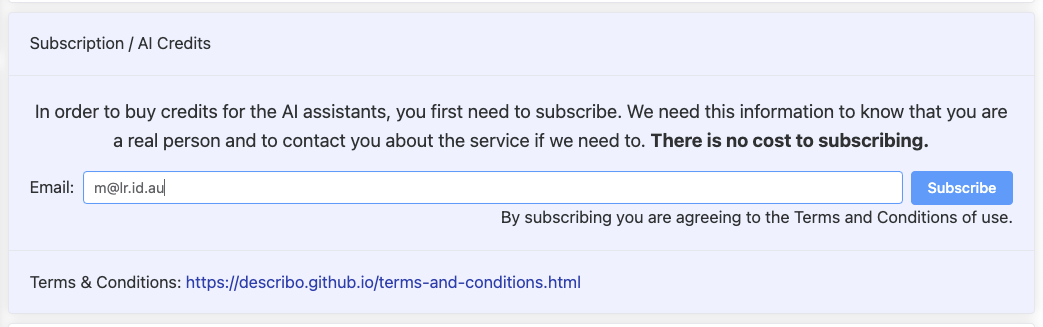
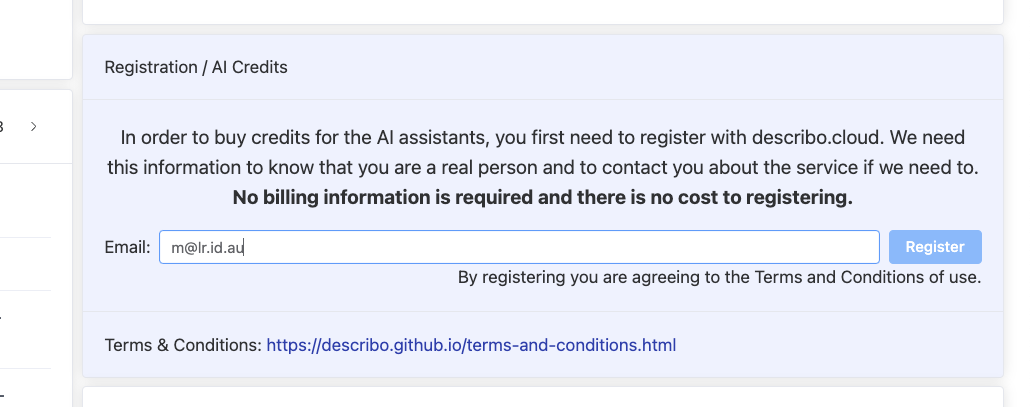
update site content

diff --git a/src/vue-components/Releases.vue b/src/vue-components/Releases.vue
@@ -1,89 +1,126 @@
 <template>
-    <div class="flex flex-col space-y-10">
-        <div
-            class="flex flex-row space-x-6 place-content-between border-b p-4 group hover:text-orange-600"
-        >
-            <div class="flex flex-row space-x-2 items-center">
+    <div class="flex flex-col space-y-10 p-10">
+        <div class="text-center text-2xl border-b py-12">Get Describo - Free Download</div>
+
+        <div class="flex flex-row space-x-32 place-content-center">
+            <div
+                class="flex flex-col space-y-2 justify-center items-center h-24 w-52 hover:text-blue-600 hover:cursor-pointer"
+                :class="{ 'text-blue-600 bg-indigo-100 rounded-xl': data.activeTab === 'mac' }"
+                @click="() => (data.activeTab = 'mac')"
+            >
                 <div><font-awesome-icon icon="fa-brands fa-apple" size="3x" /></div>
-                <div>Apple</div>
+                <div>macOS</div>
             </div>
-            <div class="flex flex-col space-y-2">
+            <div
+                class="flex flex-col space-y-2 justify-center items-center h-24 w-52 hover:text-blue-600 hover:cursor-pointer"
+                :class="{ 'text-blue-600 bg-indigo-100 rounded-xl': data.activeTab === 'windows' }"
+                @click="() => (data.activeTab = 'windows')"
+            >
+                <div><font-awesome-icon icon="fa-brands fa-windows" size="3x" /></div>
+                <div>windows</div>
+            </div>
+            <div
+                class="flex flex-col space-y-2 justify-center items-center h-24 w-52 hover:text-blue-600 hover:cursor-pointer"
+                :class="{ 'text-blue-600 bg-indigo-100 rounded-xl': data.activeTab === 'linux' }"
+                @click="() => (data.activeTab = 'linux')"
+            >
+                <div><font-awesome-icon icon="fa-brands fa-linux" size="3x" /></div>
+                <div>linux</div>
+            </div>
+        </div>
+
+        <!-- download for mac  -->
+        <div class="flex flex-col space-y-4 group py-10" v-if="data.activeTab === 'mac'">
+            <div class="flex flex-row space-x-24 place-content-center">
                 <LinkComponent :link="data.download.macArm" target="">
-                    <div class="flex flex-row space-x-2 items-center">
+                    <div class="flex flex-col space-y-2 items-center text-white font-semibold">
                         <div>
-                            <img src="/images/logos/apple-m.jpeg" class="h-10" />
+                            <img src="/images/logos/apple-m.webp" class="h-16" />
                         </div>
-                        <div>Download for Apple M processors</div>
+                        <div class="bg-blue-800 p-4 rounded-lg">
+                            Download for Apple M processors
+                        </div>
                     </div>
                 </LinkComponent>
                 <LinkComponent :link="data.download.macIntel" target="">
-                    <div class="flex flex-row space-x-2 items-center">
-                        <div>
-                            <img src="/images/logos/intel.png" class="h-10" />
+                    <div class="flex flex-col space-y-2 items-center">
+                        <div class="flex flex-col space-y-2 items-center text-white font-semibold">
+                            <div>
+                                <img src="/images/logos/intel.webp" class="h-16" />
+                            </div>
+                            <div class="bg-blue-800 p-4 rounded-lg">
+                                Download for Intel processors
+                            </div>
                         </div>
-                        <div>Download for Intel processors</div>
                     </div>
                 </LinkComponent>
-                <TipComponent class="text-center">
-                    Be sure to read the
-                    <LinkComponent link="/docs/guide/installation#macos" target="">
-                        installation instructions
-                    </LinkComponent>
-                </TipComponent>
             </div>
+            <TipComponent class="text-center text-lg">
+                Be sure to read the
+                <LinkComponent link="/docs/guide/installation#macos" target="">
+                    installation instructions
+                </LinkComponent>
+            </TipComponent>
         </div>
 
-        <div
-            class="flex flex-row space-x-6 place-content-between border-b p-4 group hover:text-orange-600"
-        >
-            <div class="flex flex-row space-x-2 items-center">
-                <div><font-awesome-icon icon="fa-brands fa-windows" size="3x" /></div>
-                <div>Windows</div>
-            </div>
-            <div class="flex flex-col">
+        <!-- download for windows -->
+        <div class="flex flex-col space-y-4 group py-10" v-if="data.activeTab === 'windows'">
+            <div class="flex flex-row space-x-24 place-content-center">
                 <LinkComponent :link="data.download.wintel" target="">
-                    <div class="flex flex-row space-x-2 items-center">
-                        <div>
-                            <img src="/images/logos/intel.png" class="h-10" />
+                    <div class="flex flex-col space-y-2 items-center">
+                        <div class="flex flex-col space-y-2 items-center text-white font-semibold">
+                            <div>
+                                <img src="/images/logos/intel-inside.webp" class="h-16" />
+                            </div>
+                            <div class="bg-blue-800 p-4 rounded-lg">
+                                Download for Intel processors
+                            </div>
                         </div>
-                        <div>Download for Intel processors</div>
                     </div>
                 </LinkComponent>
                 <LinkComponent :link="data.download.winarm" target="">
-                    <div>Download for ARM processors</div>
-                </LinkComponent>
-                <TipComponent class="text-center">
-                    Be sure to read the
-                    <LinkComponent link="/docs/guide/installation#windows" target="">
-                        installation instructions
-                    </LinkComponent>
-                </TipComponent>
-            </div>
-        </div>
-
-        <div
-            class="flex flex-row space-x-6 place-content-between border-b p-4 group hover:text-orange-600"
-        >
-            <div class="flex flex-row space-x-2 items-center">
-                <div><font-awesome-icon icon="fa-brands fa-linux" size="3x" /></div>
-                <div>Linux</div>
-            </div>
-            <div class="flex flex-col">
-                <LinkComponent :link="data.download.linux" target="">
-                    <div class="flex flex-row space-x-2 items-center">
-                        <div>
-                            <img src="/images/logos/intel.png" class="h-10" />
+                    <div class="flex flex-col space-y-2 items-center">
+                        <div class="flex flex-col space-y-2 items-center text-white font-semibold">
+                            <div>
+                                <img src="/images/logos/windows-arm-logo.webp" class="h-16" />
+                            </div>
+                            <div class="bg-blue-800 p-4 rounded-lg">
+                                Download for ARM processors
+                            </div>
                         </div>
-                        <div>Download for Intel processors</div>
                     </div>
                 </LinkComponent>
-                <TipComponent class="text-center">
-                    Be sure to read the
-                    <LinkComponent link="/docs/guide/installation#linux" target="">
-                        installation instructions
-                    </LinkComponent>
-                </TipComponent>
             </div>
+            <TipComponent class="text-center text-lg">
+                Be sure to read the
+                <LinkComponent link="/docs/guide/installation#windows" target="">
+                    installation instructions
+                </LinkComponent>
+            </TipComponent>
+        </div>
+
+        <!-- download for linux -->
+        <div class="flex flex-col space-y-4 group py-10" v-if="data.activeTab === 'linux'">
+            <div class="flex flex-row space-x-24 place-content-center">
+                <LinkComponent :link="data.download.linux" target="">
+                    <div class="flex flex-col space-y-2 items-center">
+                        <div class="flex flex-col space-y-2 items-center text-white font-semibold">
+                            <div>
+                                <img src="/images/logos/intel.webp" class="h-16" />
+                            </div>
+                            <div class="bg-blue-800 p-4 rounded-lg">
+                                Download for Intel processors
+                            </div>
+                        </div>
+                    </div>
+                </LinkComponent>
+            </div>
+            <TipComponent class="text-center text-lg">
+                Be sure to read the
+                <LinkComponent link="/docs/guide/installation#linux" target="">
+                    installation instructions
+                </LinkComponent>
+            </TipComponent>
         </div>
     </div>
 </template>
@@ -94,6 +131,7 @@ const data = reactive({
     release: undefined,
     latestReleaseURL: "https://api.github.com/repos/describo/desktop-releases/releases/latest",
     baseUrl: `https://github.com/describo/desktop-releases/download/`,
+    activeTab: "mac",
     download: {
         windows: undefined,
         macArm: undefined,

diff --git a/src/vue-components/Link.vue b/src/vue-components/Link.vue
@@ -1,9 +1,5 @@
 <template>
-    <a
-        :href="props.link"
-        :target="props.target"
-        :class="{ 'vp-external-link-icon': props.target === '_blank' }"
-    >
+    <a :href="props.link" :target="props.target">
         <slot></slot>
     </a>
 </template>
@@ -16,6 +12,9 @@ const props = defineProps({
     target: {
         type: String,
         default: "_blank",
+    },
+    styling: {
+        type: String,
     },
 });
 </script>

diff --git a/sidebar-menu.js b/sidebar-menu.js
@@ -28,7 +28,7 @@ export const sidebar = [
                         link: "/docs/guide/configuration/general-settings",
                     },
                     {
-                        text: "Subscribe to describo.cloud",
+                        text: "Register with describo.cloud",
                         link: "/docs/guide/configuration/subscribe",
                     },
                     {

diff --git a/src/desktop.md b/src/desktop.md
@@ -3,32 +3,13 @@ layout: home
 aside: false
 ---
 
-<div class="flex flex-col space-y-10 my-10">
-    <InfoPanelComponent image="/images/tour/desktop1.webp" :border="false">
-        <template #text>
-            <div class="text-lg text-center">
-                <p>
-                    Available for all major platforms for FREE
-                </p>
-                <ImageComponent src='/images/tour/desktop1.webp' class="my-4"></ImageComponent>
-                View all releases @ <br/>
-                <LinkComponent link="https://github.com/describo/desktop-releases/releases/latest" class="text-base">
-                     https://github.com/describo/desktop-releases/releases/latest
-                </LinkComponent>
-            </div>
-        </template>
-        <template #content>
-            <div class="flex flex-col space-y-4 items-center">
-                <div>Download Describo Desktop</div>
-               <div class="w-full border-b border-slate-400"></div>
-                <ReleasesComponent class="hidden md:inline" />
-                Coming Soon
-            </div>
-        </template>
-    </InfoPanelComponent>
+<ReleasesComponent class="hidden md:inline-block w-full bg-white" />
 
+<div class="flex place-content-center">
+    View all releases @
+    <LinkComponent link="https://github.com/describo/desktop-releases/releases/latest" class="text-base">
+    https://github.com/describo/desktop-releases/releases/latest </LinkComponent>
 </div>
-
 <FooterComponent class="mt-6"/>
 
 <script setup>

diff --git a/src/docs/guide/configuration/subscribe.md b/src/docs/guide/configuration/subscribe.md
@@ -1,11 +1,11 @@
 ---
-title: Subscribe to describo.cloud
+title: Register with describo.cloud
 ---
 
-# Subscribe to describo.cloud
+# Register with describo.cloud
 
 In order to use the text extraction, entity recognition and assistant capabilities you must first
-subscribe to describo.cloud. This is an essential requirement as you must purchase credits to use
+register with describo.cloud. This is an essential requirement as you must purchase credits to use
 the services.
 
 ::: warning Info
@@ -26,7 +26,7 @@ Ensure you have reviewed:
 
 :::
 
-On the dashboard, in the panel titled `Subscription / AI Credits`, get started by entering your
+On the dashboard, in the panel titled `Registration / AI Credits`, get started by entering your
 email address:
 
 <ImageComponent src="/images/configuration/subscribe1.webp" />
@@ -40,8 +40,6 @@ Copy the code from your email into the text box and click 'Verify':
 
 <ImageComponent src="/images/configuration/subscribe3.webp" />
 
-As we are currently in a private beta phase, if you want some credits to have a go please email
-<a href="mailto:support@describo.cloud">support@describo.cloud</a> and tell us a little bit about
-you and your use case. **Be sure to email from the address that you signed up with.**
+You can purchase credits as soon as you've verified your email address.
 
 <ImageComponent src="/images/configuration/subscribe4.webp" />

diff --git a/src/index.md b/src/index.md
@@ -34,7 +34,7 @@ layout: home
         </FeatureComponent>
         <FeatureComponent link="/desktop" :icon="['fas', 'download']" class="m-1 grow lg:grow-0 bg-blue-200">
           <template #title>
-            Get Describo Desktop
+            Get Describo Free
           </template>
         </FeatureComponent>
     </div>
@@ -103,7 +103,7 @@ layout: home
       </p>
     </template>
     <template #content>
-      <ImageComponent src="/images/tour/desktop1.webp" />
+      <ImageComponent src="/images/tour/desktop4.webp" />
     </template>
   </InfoPanelComponent>
 

diff --git a/src/docs/guide/configuration/data-processing.md b/src/docs/guide/configuration/data-processing.md
@@ -4,7 +4,7 @@ title: Cloud Services & Data Processing
 
 # Cloud Services & Data processing
 
-If you subscribe to the describo.cloud, the capabilities you will use are provided using Amazon AWS.
+If you register with describo.cloud, the capabilities you will use are provided using Amazon AWS.
 Specifically, the services used are: AWS Textract, AWS Comprehend and AWS Bedrock.
 
 In order to support users across the globe, regional services have been provisioned. The AWS region
